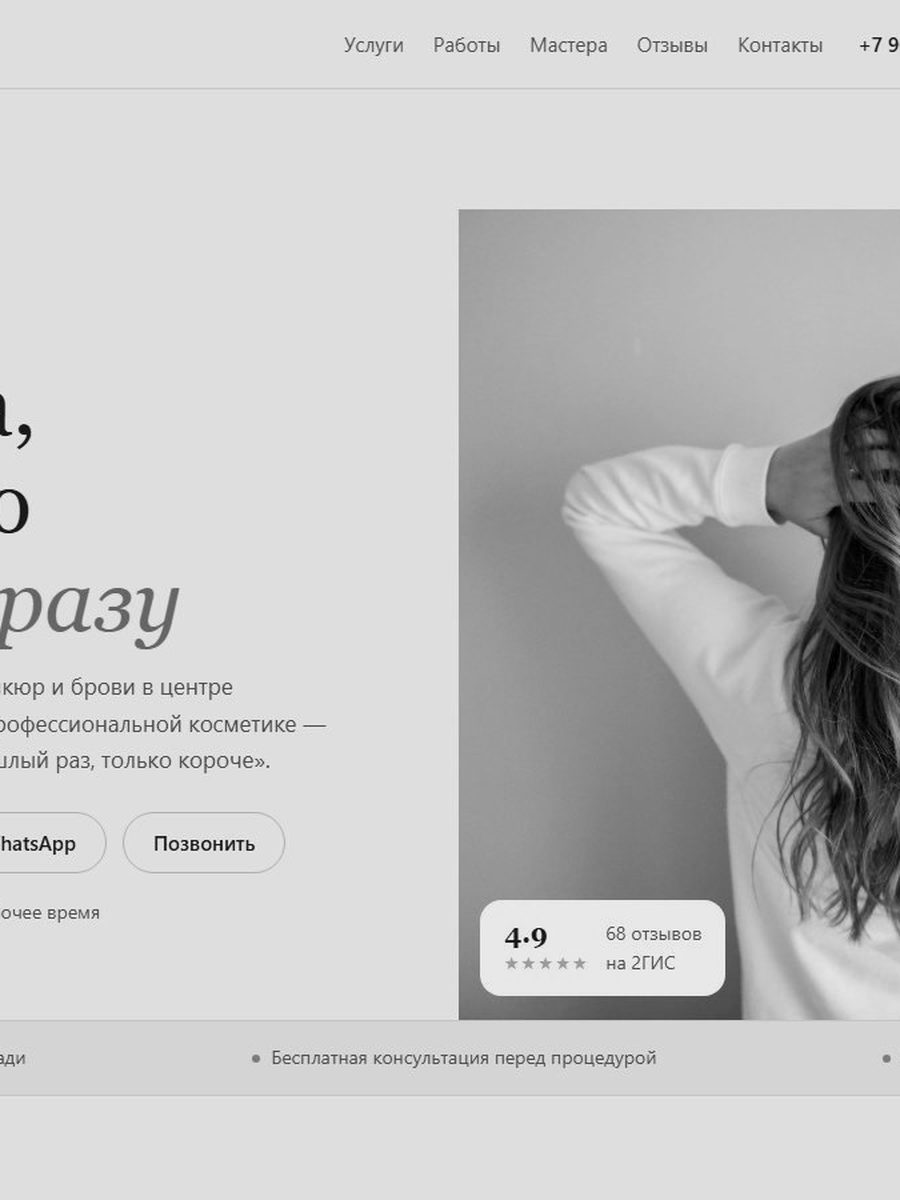
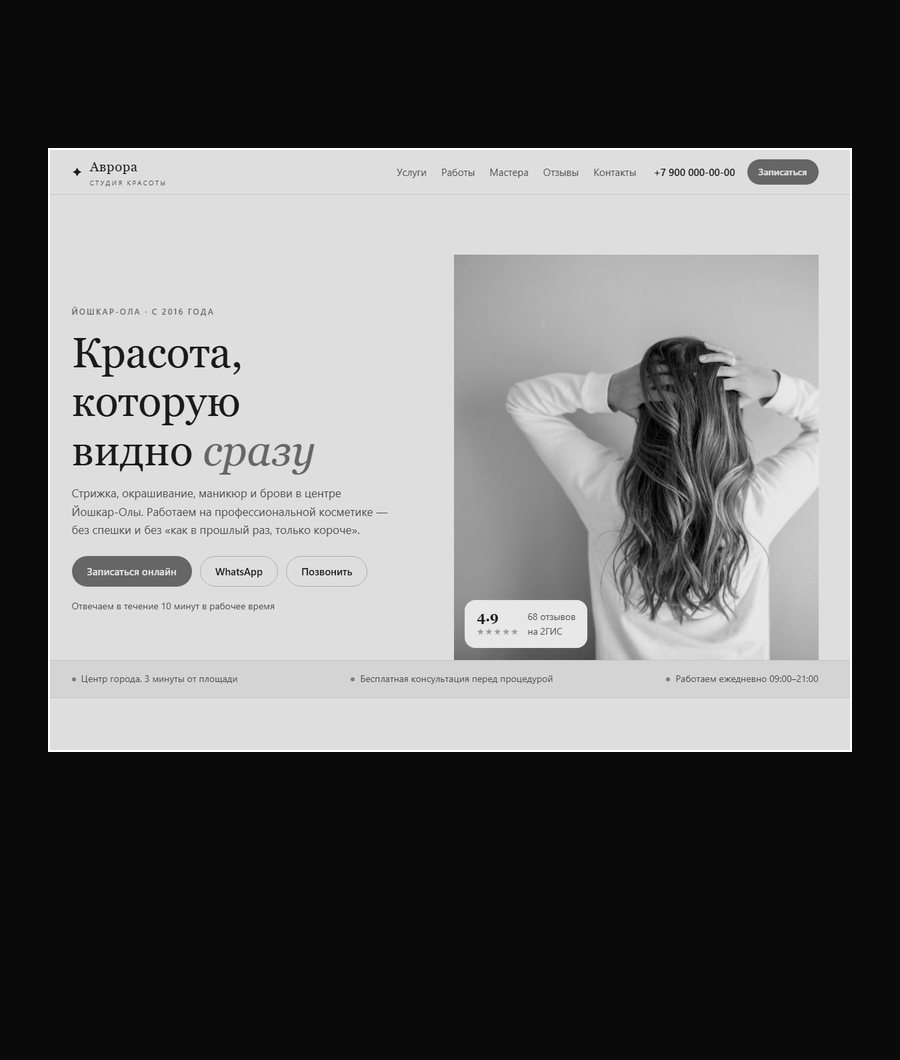
Постеры в портфолио без обрезки, единый логотип без точки

diff --git a/assets/site.css b/assets/site.css
@@ -103,7 +103,7 @@ img{max-width:100%;display:block}
 
 /* ---------- вертикальная плашка по центру ---------- */
 .tall{display:block;max-width:min(620px,92%);margin:clamp(30px,5vh,56px) auto 0;position:relative;overflow:hidden;background:var(--bg-2)}
-.tall img{width:100%;height:clamp(360px,68vh,760px);object-fit:cover;transition:transform 1.1s cubic-bezier(.2,.8,.2,1)}
+.tall img{width:100%;height:auto;display:block;transition:transform 1.1s cubic-bezier(.2,.8,.2,1)}
 .tall:hover img{transform:scale(1.03)}
 .tall::after{content:"";position:absolute;inset:0;background:linear-gradient(180deg,rgba(0,0,0,.05) 30%,rgba(0,0,0,.60) 100%)}
 .tall__cap{

diff --git a/uslugi.html b/uslugi.html
@@ -12,7 +12,7 @@
 
 <header class="top is-solid" id="top">
   <div class="shell">
-    <a class="logo" href="index.html">mensoridev<b>.</b></a>
+    <a class="logo" href="index.html">mensoridev</a>
     <nav class="nav">
       <a href="index.html#works"><i>01</i>Работы</a>
       <a href="index.html#calc"><i>02</i>Калькулятор</a>

diff --git a/privacy.html b/privacy.html
@@ -12,7 +12,7 @@
 
 <header class="top is-solid" id="top">
   <div class="shell">
-    <a class="logo" href="index.html">mensoridev<b>.</b></a>
+    <a class="logo" href="index.html">mensoridev</a>
     <nav class="nav">
       <a href="index.html#services">Услуги</a>
       <a href="raboty.html">Работы</a>
